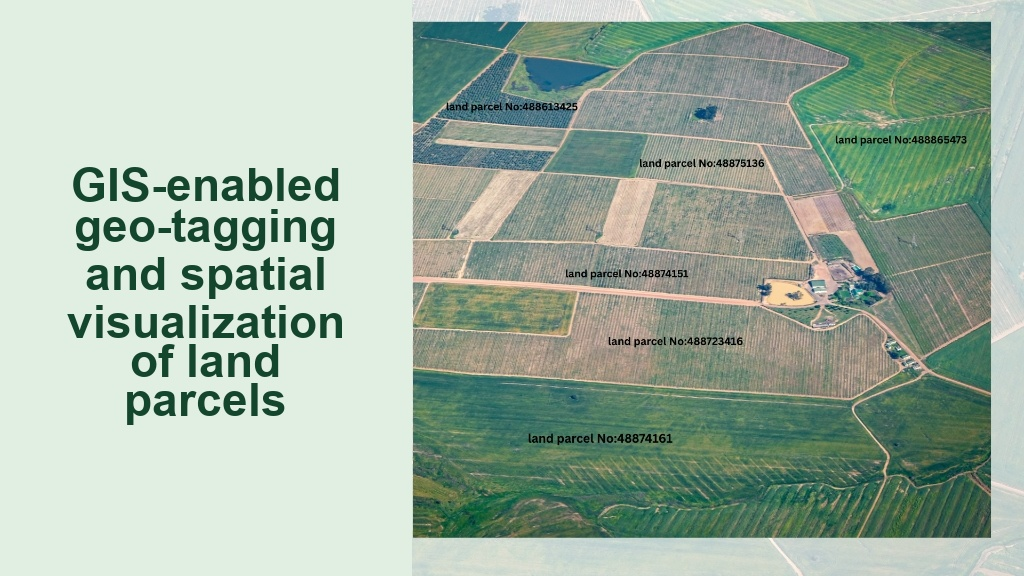
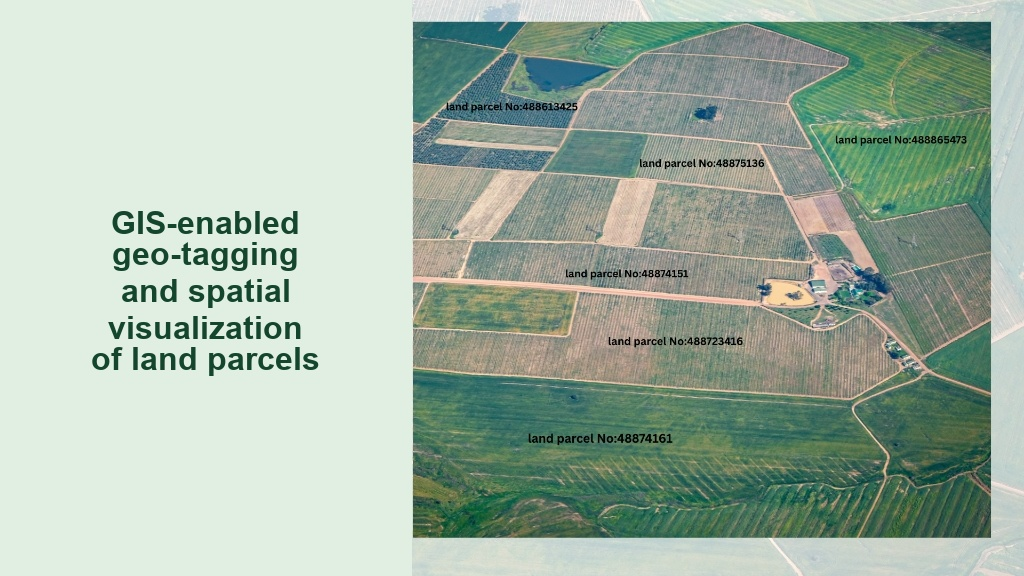
Adjust GIS image text size to 32px bold (Slide 1 only) and decrease notice ticker speed to 20s (0.5x)

Changed region(s): [[0.0625, 0.2812, 0.3438, 0.75]]

diff --git a/css/style.css b/css/style.css
@@ -674,7 +674,7 @@ button { cursor: pointer; font-family: inherit; }
 .gov-ticker-marquee {
   display: inline-block;
   white-space: nowrap;
-  animation: ticker-scroll 10s linear infinite;
+  animation: ticker-scroll 20s linear infinite;
   will-change: transform;
 }
 .gov-ticker-marquee:hover {
